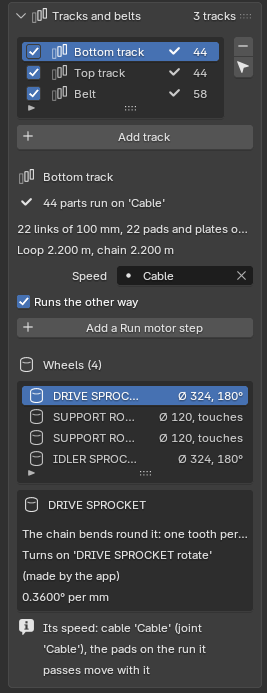
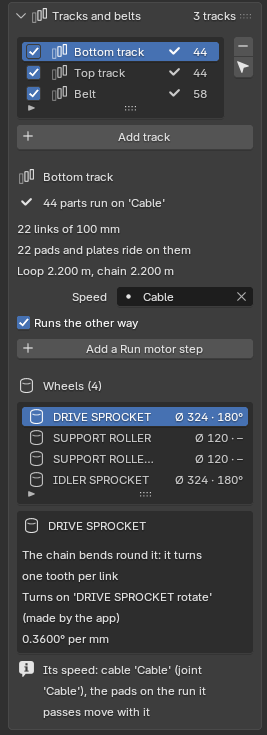
Task 0079: panel labels fit (two lines, wrapped wheel text, wheels numbered), panel picture again

diff --git a/fresing_render/blender/ui_tracks.py b/fresing_render/blender/ui_tracks.py
@@ -23,9 +23,9 @@ def counts(scene) -> tuple[str, bool]:
 
 
 def wheel_text(w) -> str:
-    """'Ø 785, 180°' for a wheel the chain bends round, 'Ø 120, touches' for one it runs past."""
+    """'Ø 785 · 180°' for a wheel the chain bends round, 'Ø 120 · –' for one it runs past (Ø at the chain's pins)."""
     d = f"Ø {2000.0 * w.radius:.0f}"
-    return f"{d}, {math.degrees(w.wrap):.0f}°" if w.wrapped else f"{d}, touches"
+    return f"{d} · {math.degrees(w.wrap):.0f}°" if w.wrapped else f"{d} · –"
 
 
 class FRESING_UL_tracks(bpy.types.UIList):
@@ -47,7 +47,7 @@ class FRESING_UL_tracks(bpy.types.UIList):
 
 class FRESING_UL_track_wheels(bpy.types.UIList):
     def draw_item(self, context, layout, data, item, icon, active_data, active_propname, index):
-        split = layout.split(factor=0.55, align=True)
+        split = layout.split(factor=0.62, align=True)
         split.label(text=item.name, icon="MESH_CYLINDER", translate=False)
         sub = split.row(align=True)
         sub.alignment = "RIGHT"
@@ -105,8 +105,9 @@ class FRESING_PT_tracks(_Panel, bpy.types.Panel):
             wrap(layout, context, text[:1].upper() + text[1:], icon=LEVEL_ICONS[level],
                  alert=level in ("WARN", "ERROR"))
         col = layout.column(align=True)
-        col.label(text=f"{plural(it.links, 'link')} of {it.pitch * 1000.0:.0f} mm, "
-                       f"{plural(it.parts - it.links, "pad or plate", "pads and plates")} on them")
+        col.label(text=f"{plural(it.links, 'link')} of {it.pitch * 1000.0:.0f} mm")
+        if it.parts > it.links:
+            col.label(text=f"{plural(it.parts - it.links, 'pad or plate', 'pads and plates')} ride on them")
         col.label(text=f"Loop {it.length:.3f} m, chain {it.chain_length:.3f} m")
         # -- its speed
         col = split_props(layout)
@@ -124,8 +125,8 @@ class FRESING_PT_tracks(_Panel, bpy.types.Panel):
             box = layout.box()
             box.label(text=w.name, icon="MESH_CYLINDER", translate=False)
             c = box.column(align=True)
-            c.label(text="The chain bends round it: one tooth per link" if w.wrapped else
-                    "The chain runs past it: it turns with the chain's speed")
+            wrap(c, context, "The chain bends round it: it turns one tooth per link" if w.wrapped else
+                 "The chain runs past it: it turns as fast as the chain", inset=12)
             if w.joint:
                 wrap(c, context, f"Turns on '{w.joint}'" + (" (made by the app)" if w.made_joint else ""), inset=12)
             if w.ratio:

diff --git a/fresing_render/blender/tracks.py b/fresing_render/blender/tracks.py
@@ -570,10 +570,13 @@ def add(scene, wheels, chain, riders=(), joint: str = "", name: str = "", key: s
         item.chain_uid = str(chain.get(build.PROP_UID, ""))
         item.rider_uids = "\n".join(str(r.get(build.PROP_UID, "")) for r in riders or () if r is not None)
     s.tracks_index = len(s.tracks) - 1
+    seen: dict = {}
     for w in geo["wheels"]:
         row = item.wheels.add()
+        base = _name(w["part"])
+        seen[base] = seen.get(base, 0) + 1
         with flex._quiet(row):
-            row.name = _name(w["part"])
+            row.name = base if seen[base] == 1 else f"{base} {seen[base]}"       # two support rollers told apart
             row.part = w["part"]
             row.part_uid = str(w["part"].get(build.PROP_UID, ""))
     try:
